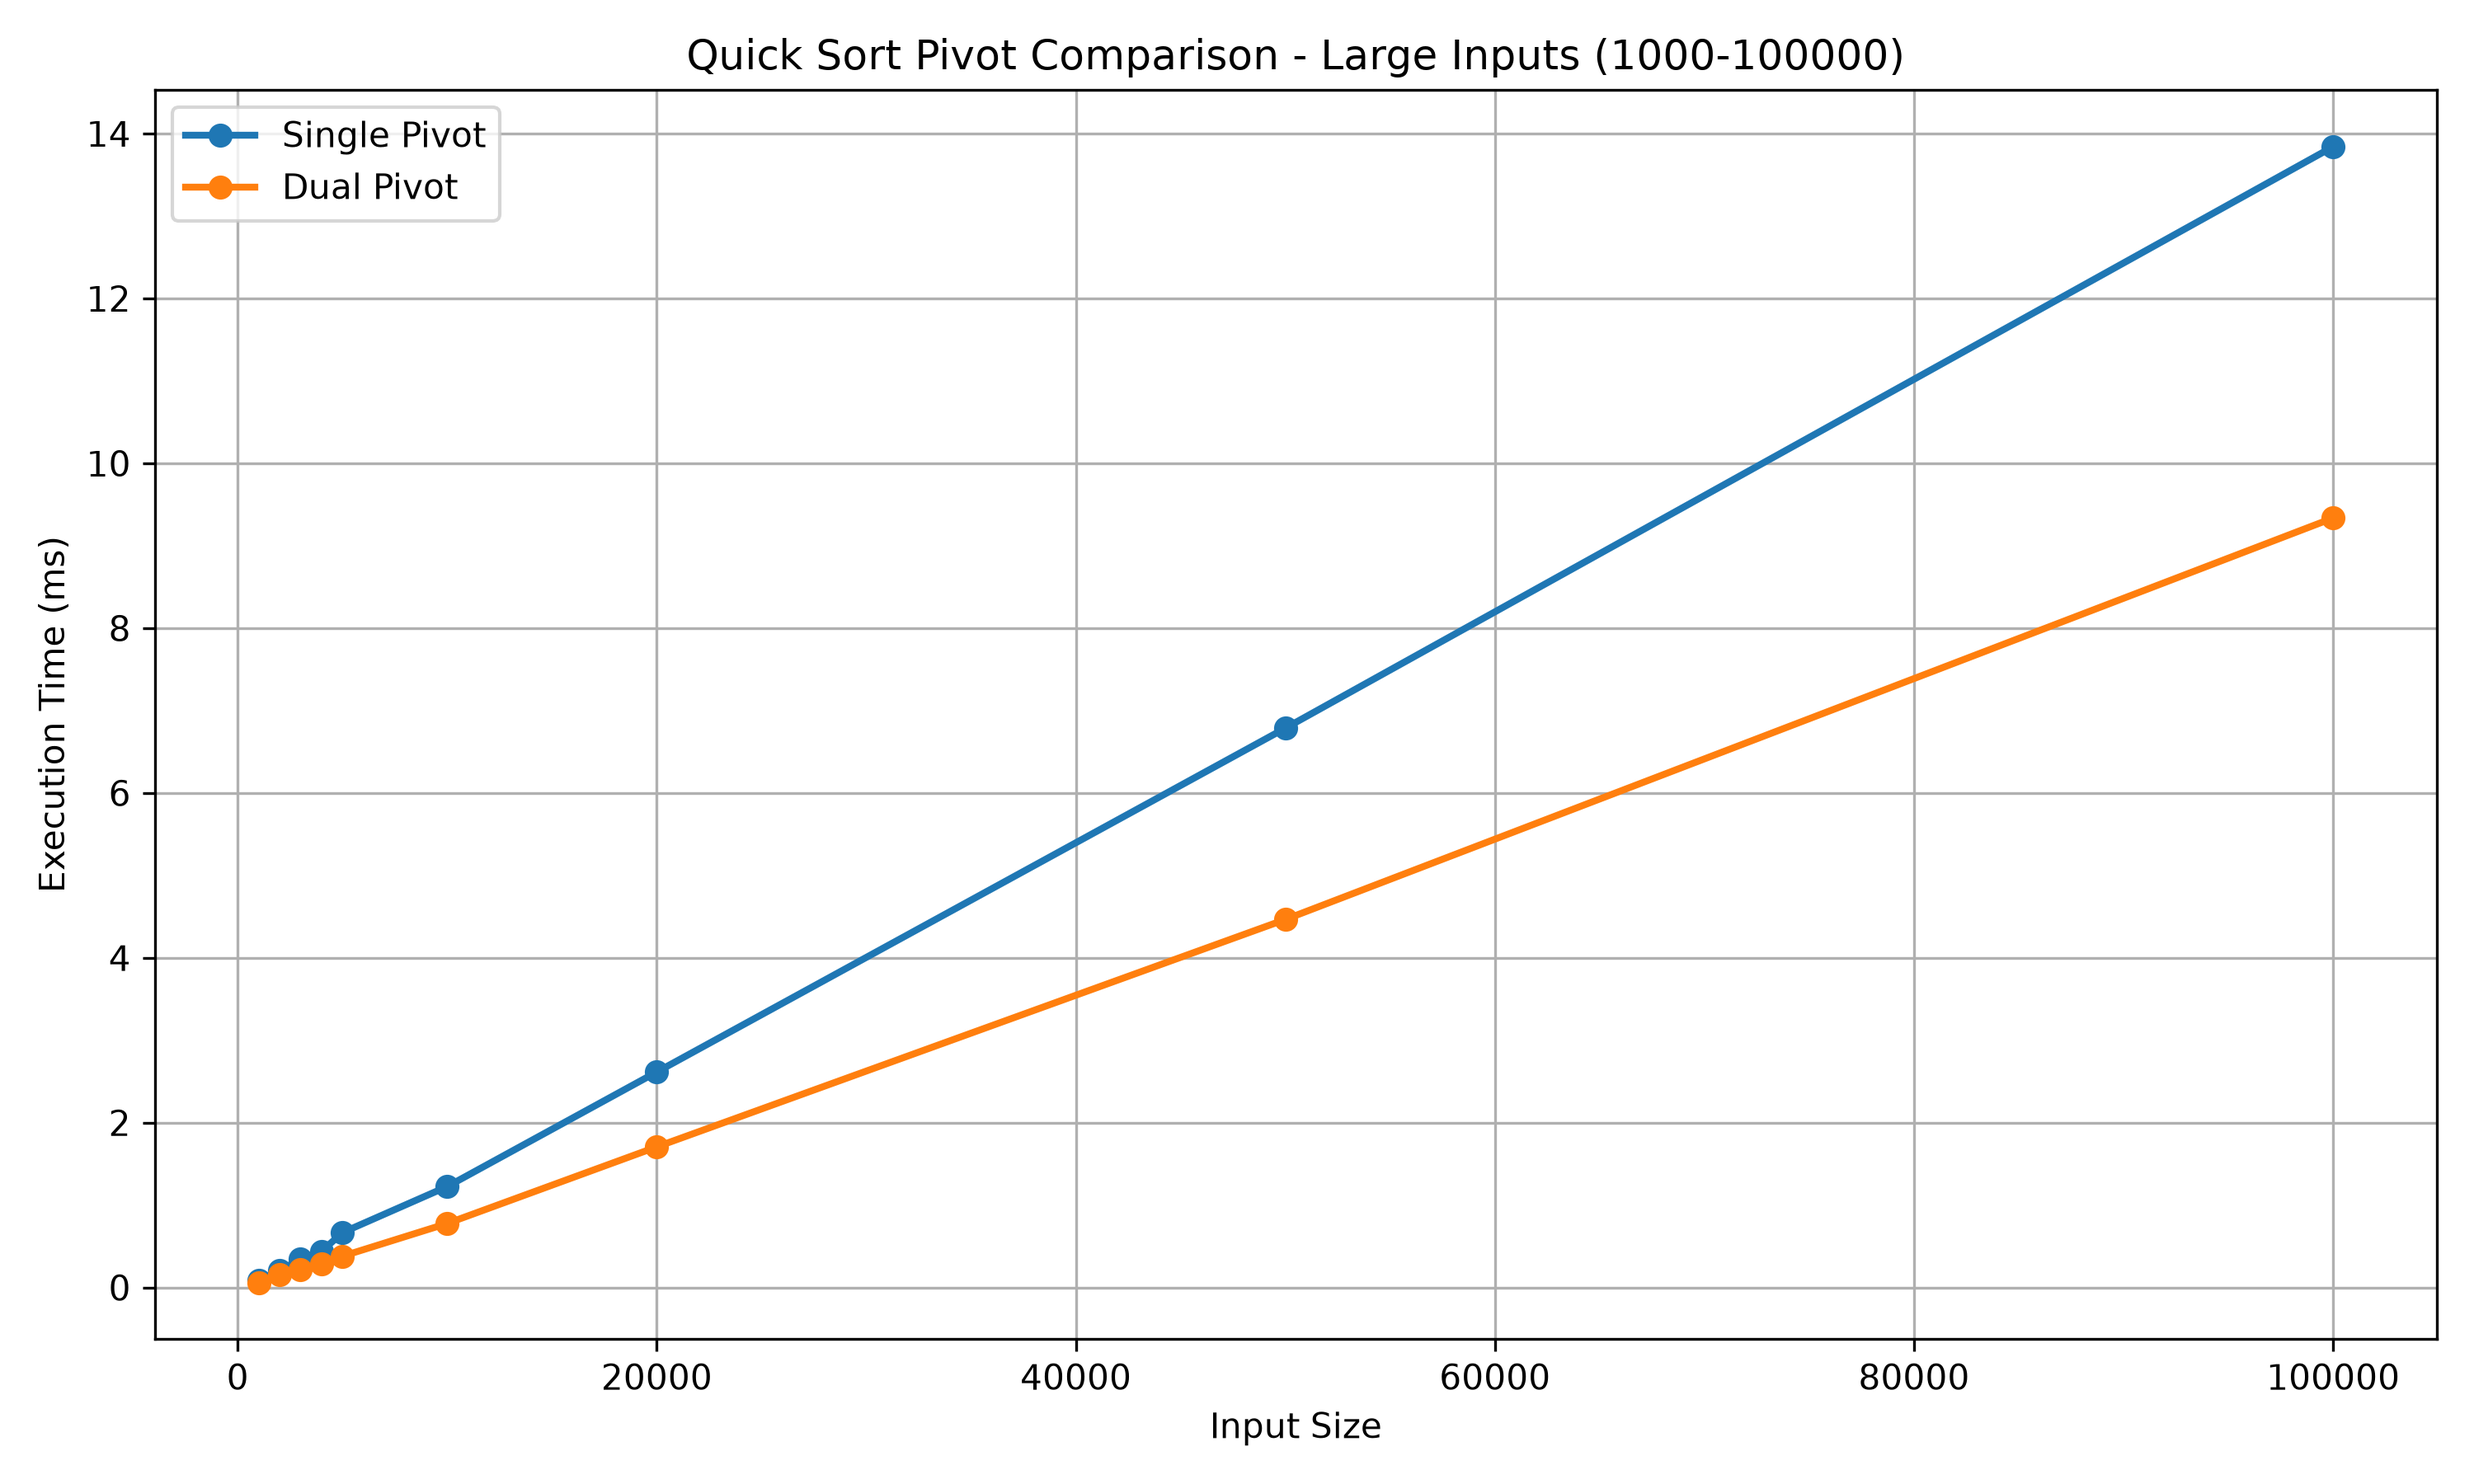
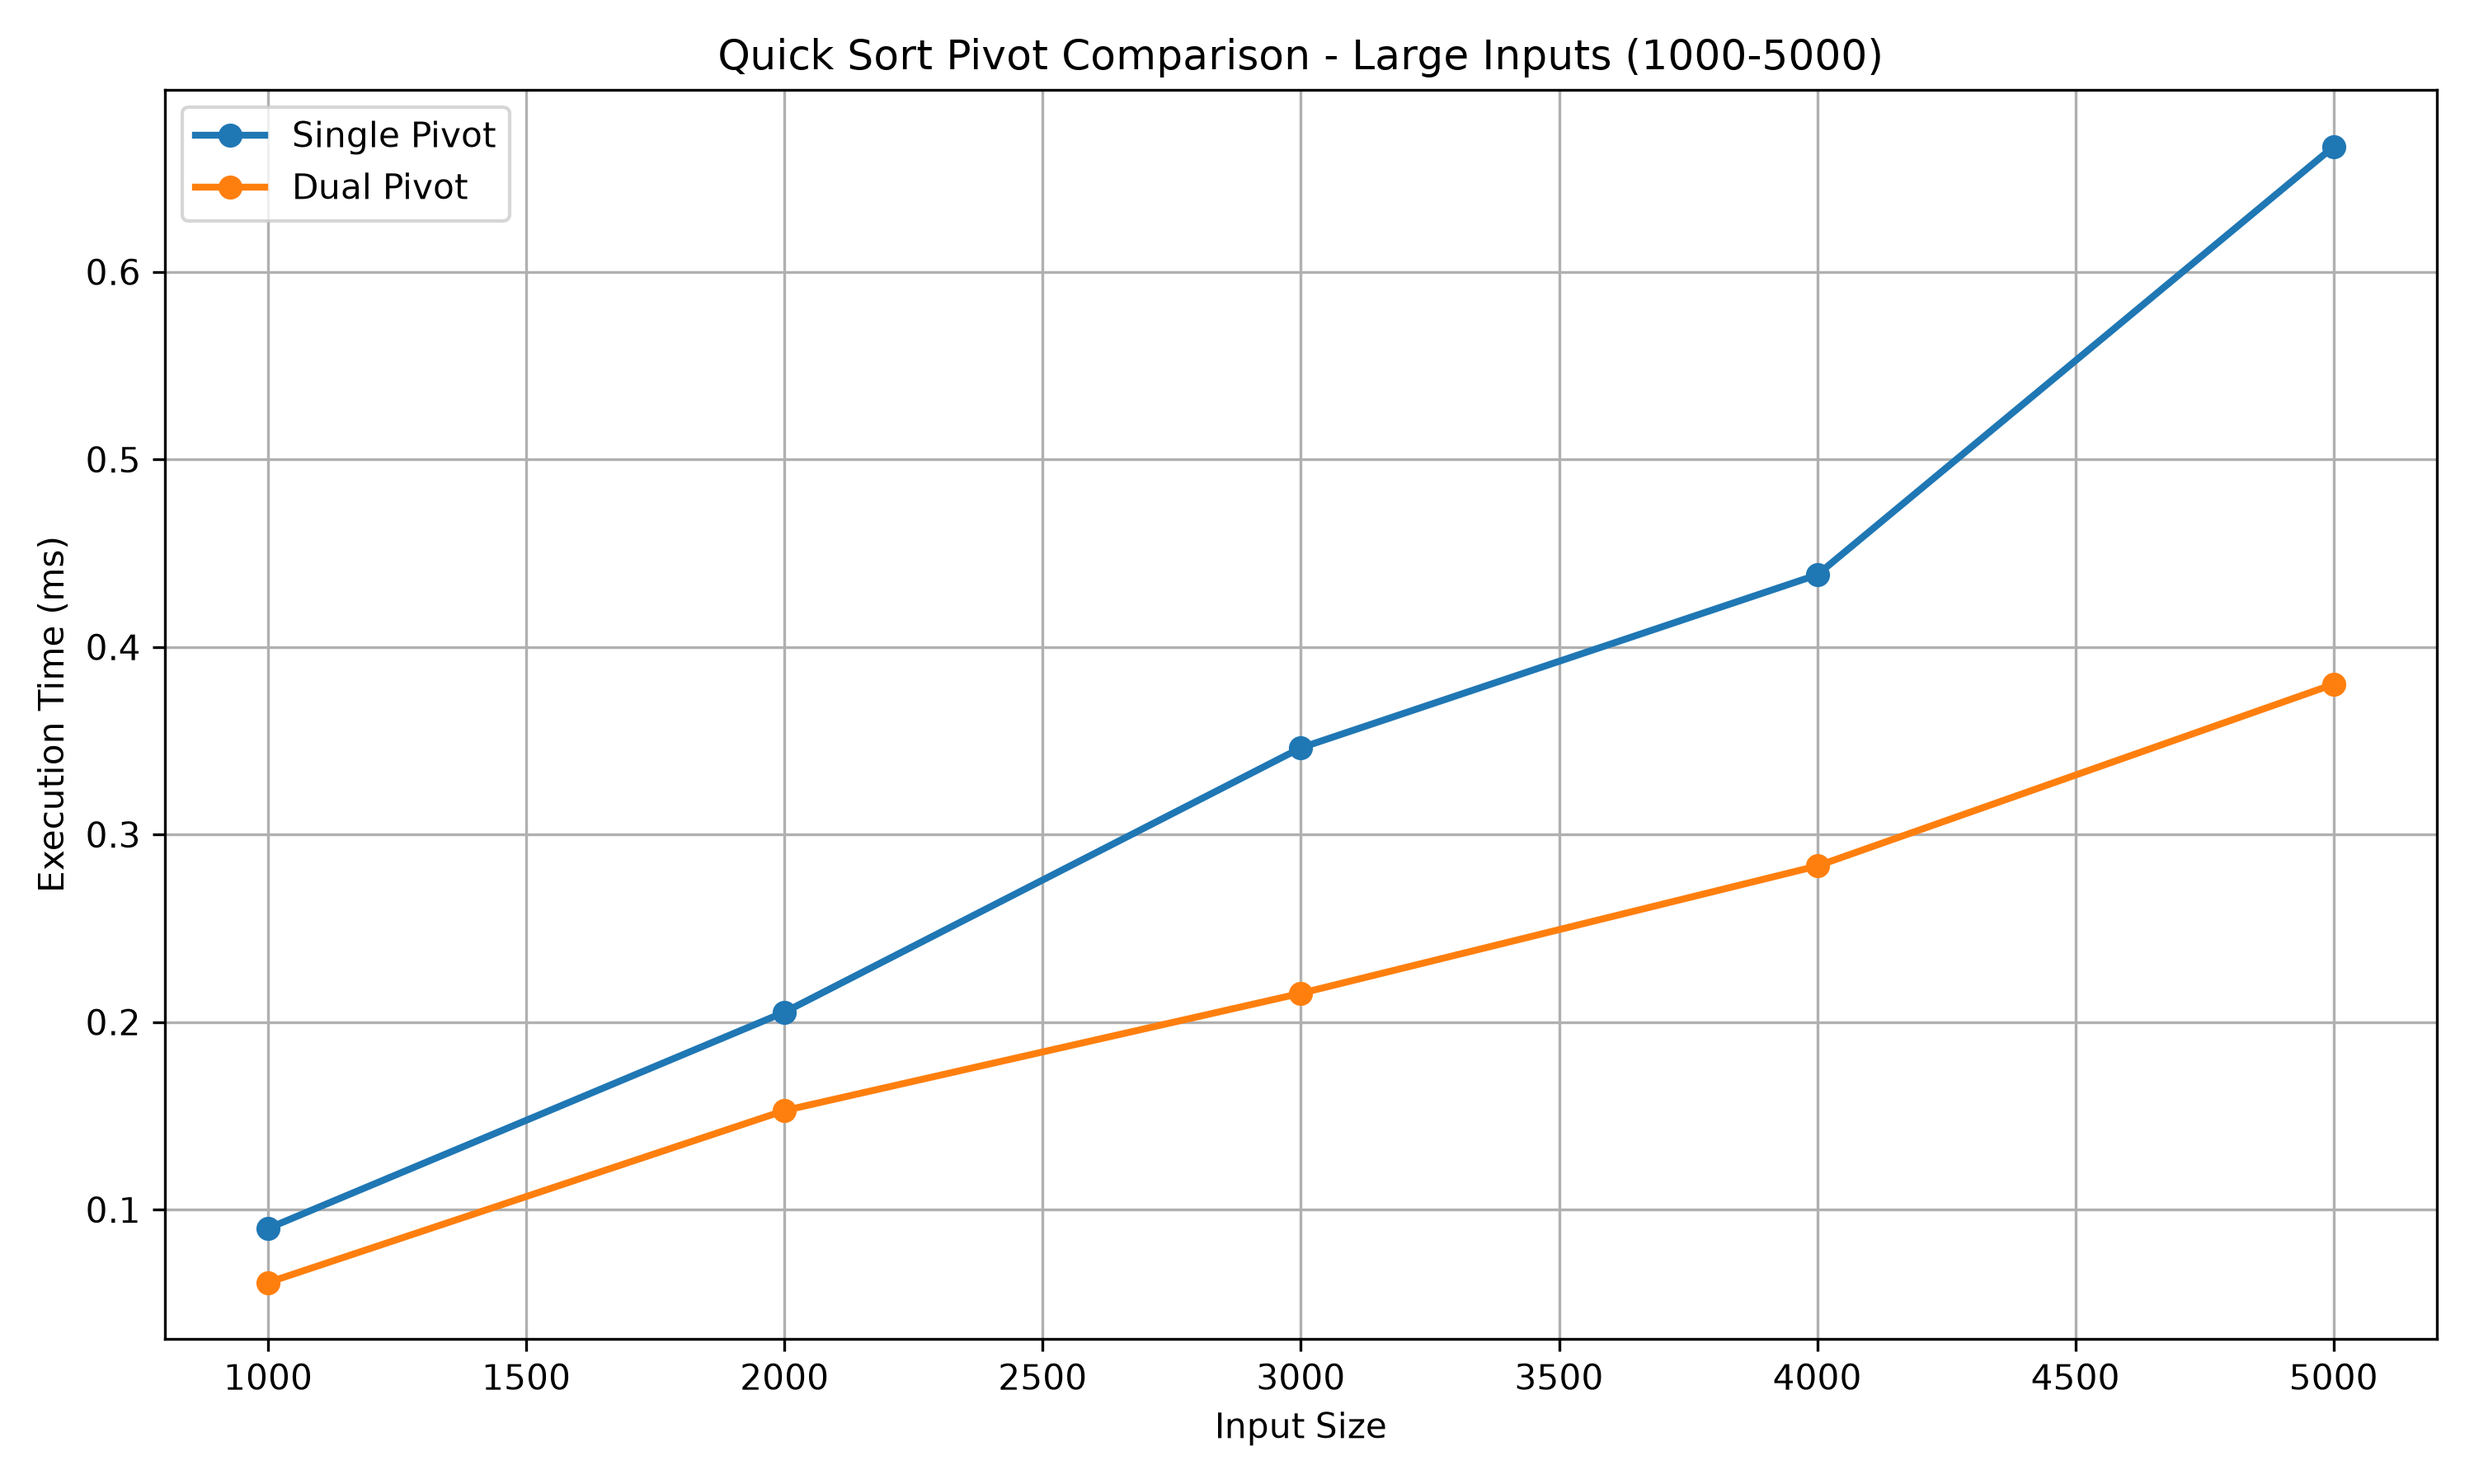
Add support for large and very large input comparisons in Quick Sort graphs

diff --git a/report/graph.py b/report/graph.py
@@ -139,12 +139,12 @@ plt.savefig(
 plt.close()
 
 # =====================================================
-# LARGE INPUTS (1000-100000)
+# LARGE INPUTS (1000-5000)
 # =====================================================
 
 large = df[
     (df["Size"] >= 1000) &
-    (df["Size"] <= 100000)
+    (df["Size"] <= 5000)
 ]
 
 plt.figure(figsize=(10, 6))
@@ -166,7 +166,7 @@ plt.plot(
 )
 
 plt.title(
-    "Quick Sort Pivot Comparison - Large Inputs (1000-100000)"
+    "Quick Sort Pivot Comparison - Large Inputs (1000-5000)"
 )
 
 plt.xlabel("Input Size")
@@ -178,6 +178,51 @@ plt.tight_layout()
 
 plt.savefig(
     "./report/large_inputs.png",
+    dpi=300
+)
+
+plt.close()
+
+# =====================================================
+# VERY LARGE INPUTS (5000-100000)
+# =====================================================
+
+very_large = df[
+    (df["Size"] >= 5000) &
+    (df["Size"] <= 100000)
+]
+
+plt.figure(figsize=(10, 6))
+
+plt.plot(
+    very_large["Size"],
+    very_large["SinglePivotMs"],
+    marker="o",
+    linewidth=2,
+    label="Single Pivot"
+)
+
+plt.plot(
+    very_large["Size"],
+    very_large["DualPivotMs"],
+    marker="o",
+    linewidth=2,
+    label="Dual Pivot"
+)
+
+plt.title(
+    "Quick Sort Pivot Comparison - Very Large Inputs (5000-100000)"
+)
+
+plt.xlabel("Input Size")
+plt.ylabel("Execution Time (ms)")
+plt.legend()
+plt.grid(True)
+
+plt.tight_layout()
+
+plt.savefig(
+    "./report/very_large_inputs.png",
     dpi=300
 )
 
